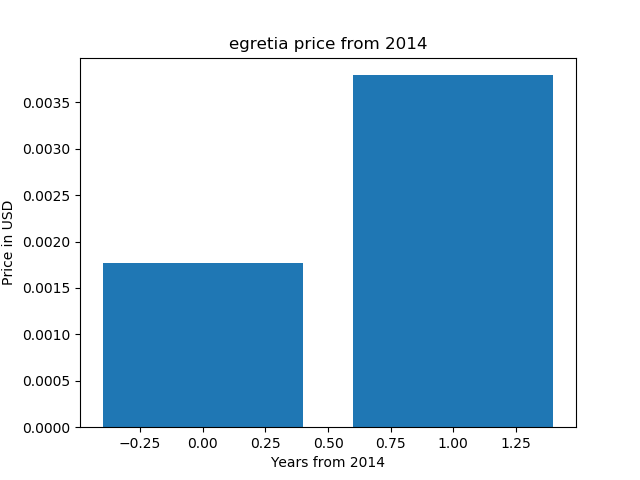
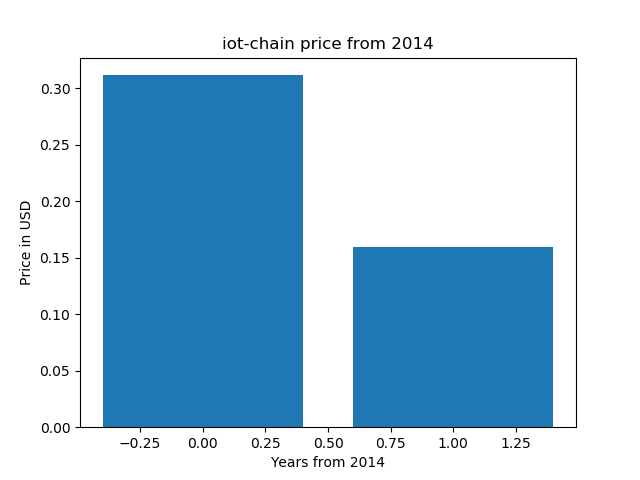
first commit

diff --git a/example.py b/example.py
@@ -10,7 +10,7 @@ from time import gmtime, strftime
 import matplotlib.pyplot as plt
 
 enddate = strftime("%Y%m%d", gmtime())
-r  = requests.get("https://coinmarketcap.com/currencies/egretia/historical-data/?start=20140101&end={0}".format(enddate))
+r  = requests.get("https://coinmarketcap.com/currencies/iot-chain/historical-data/?start=20140101&end={0}".format(enddate))
 data = r.text
 
 soup = BeautifulSoup(data, "html.parser")
@@ -44,7 +44,7 @@ print(x)
 
 x = list(range(0, len(prices)))
 
-plt.title('egretia price from 2014')
+plt.title('iot-chain price from 2014')
 plt.ylabel('Price in USD')
 plt.xlabel('Years from 2014')
 plt.bar(x, prices)

diff --git a/README.md b/README.md
@@ -1,6 +1,6 @@
-# egretia price chart 
+# iot-chain price chart 
 
-egretia price chart (matplotlib, python)
+iot-chain price chart (matplotlib, python)
 
 https://pythonprogramminglanguage.com
 
